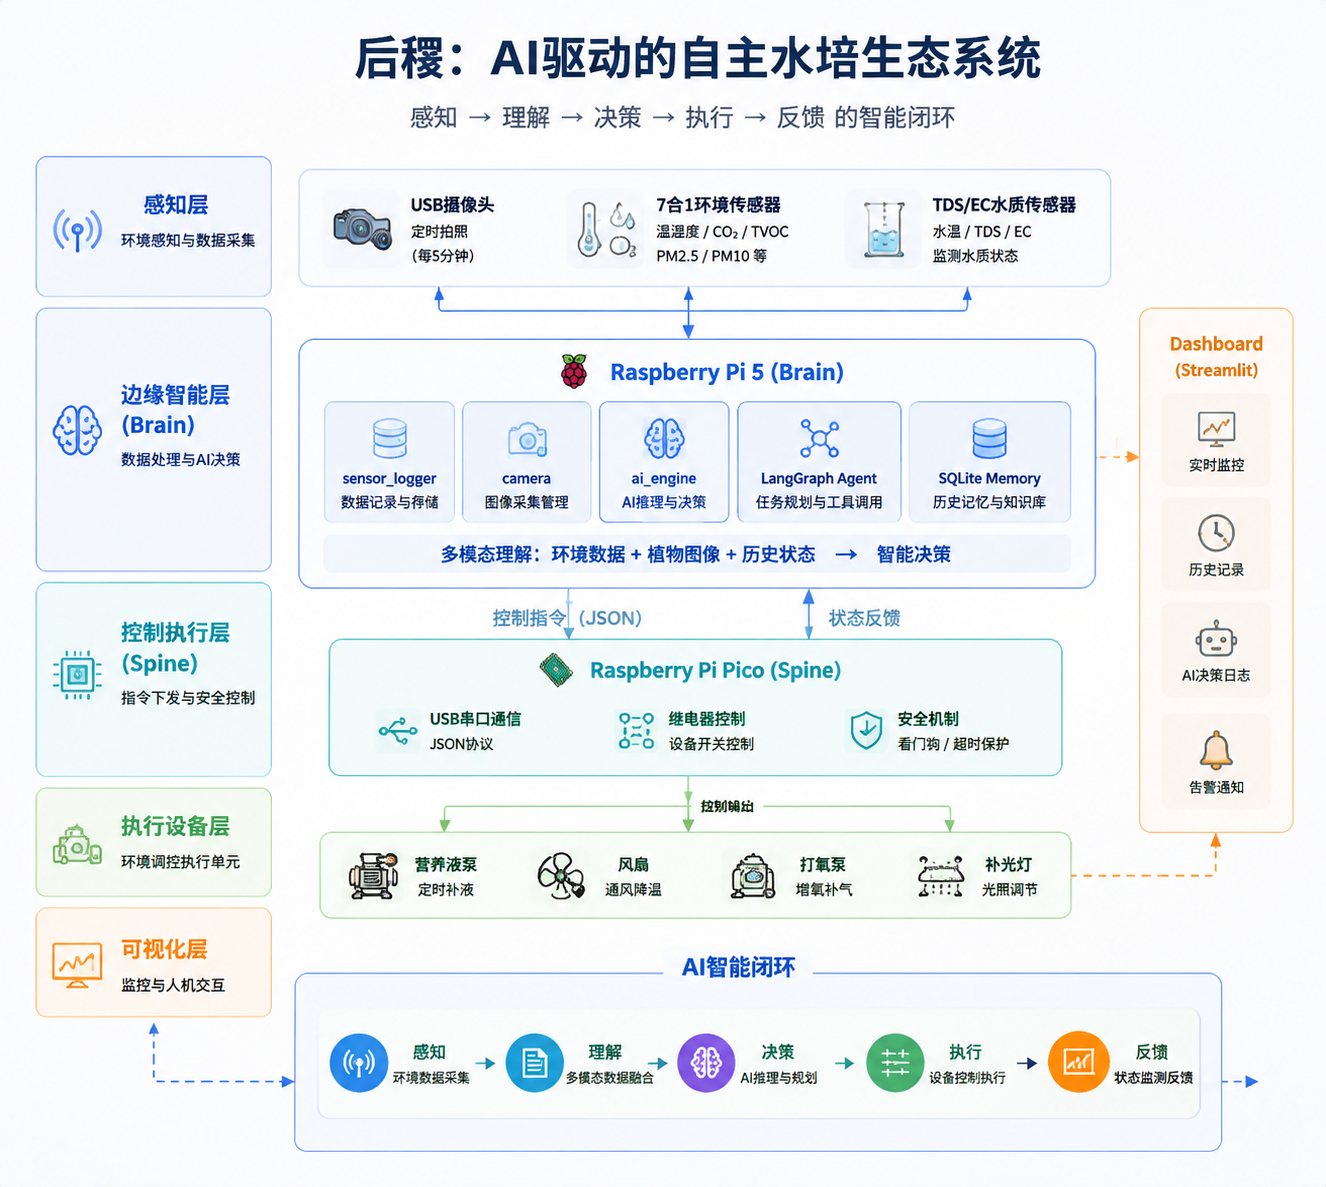
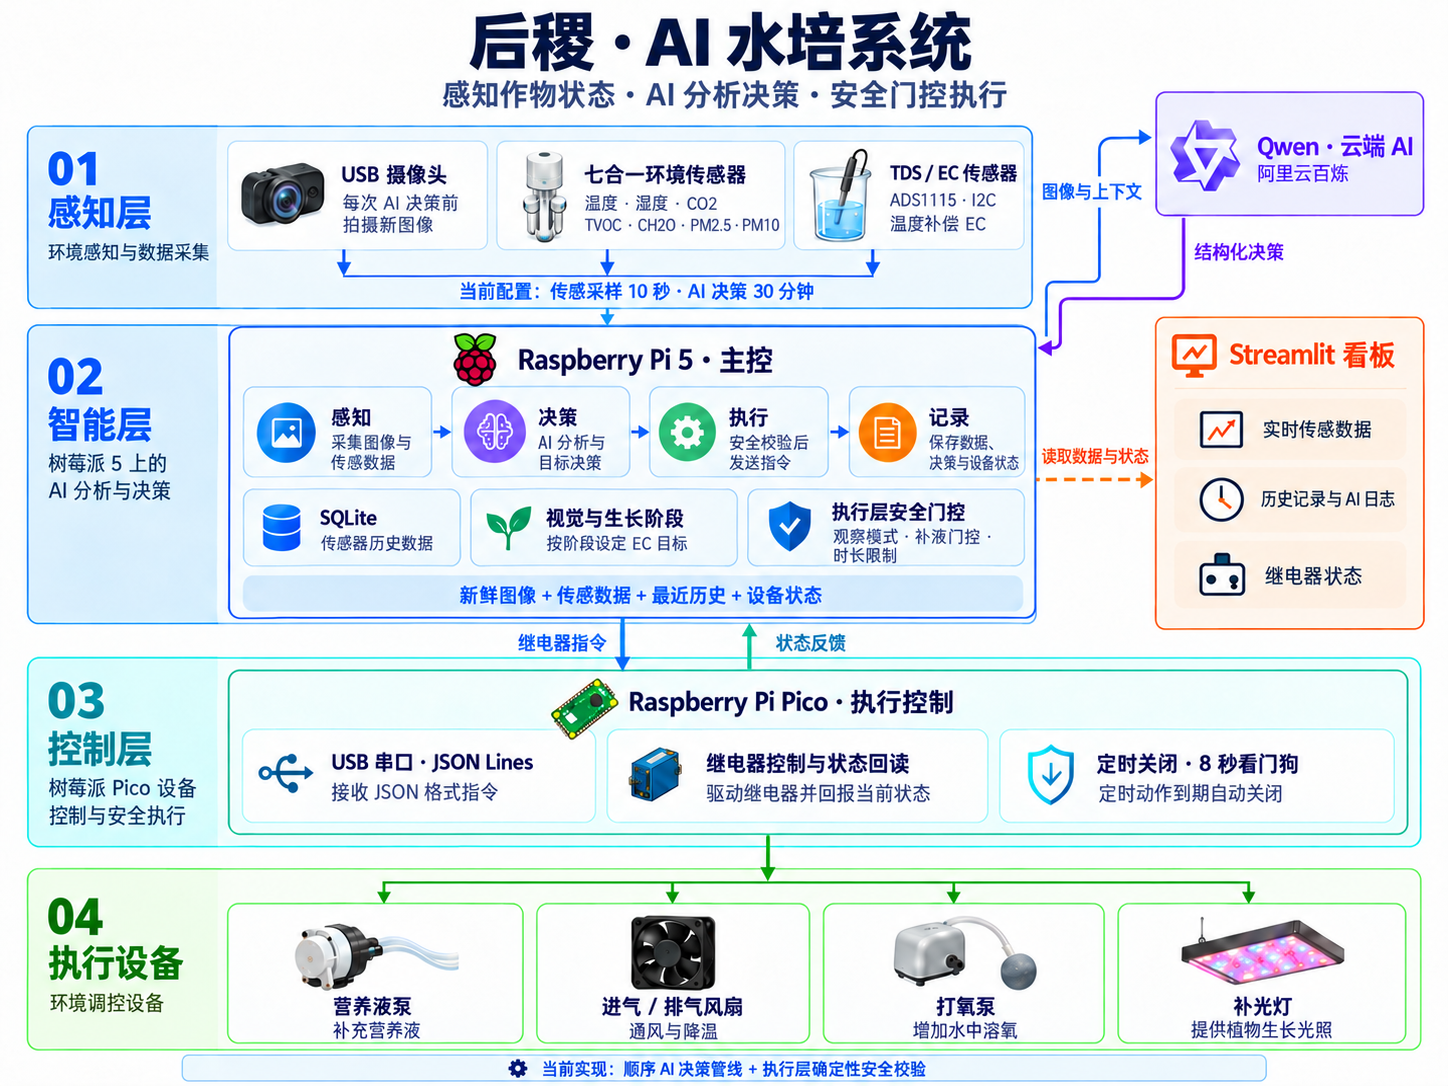
docs: refresh Chinese system architecture illustration

diff --git a/README.md b/README.md
@@ -19,7 +19,7 @@
 
 ## 系统架构
 
-![后稷 AI 自主水培生态系统架构图](docs/system-architecture.png)
+![后稷 AI 水培系统架构图](docs/system-architecture.png)
 
 > 架构示意图；实际采样周期和已实现能力以当前配置及下文说明为准。
 
